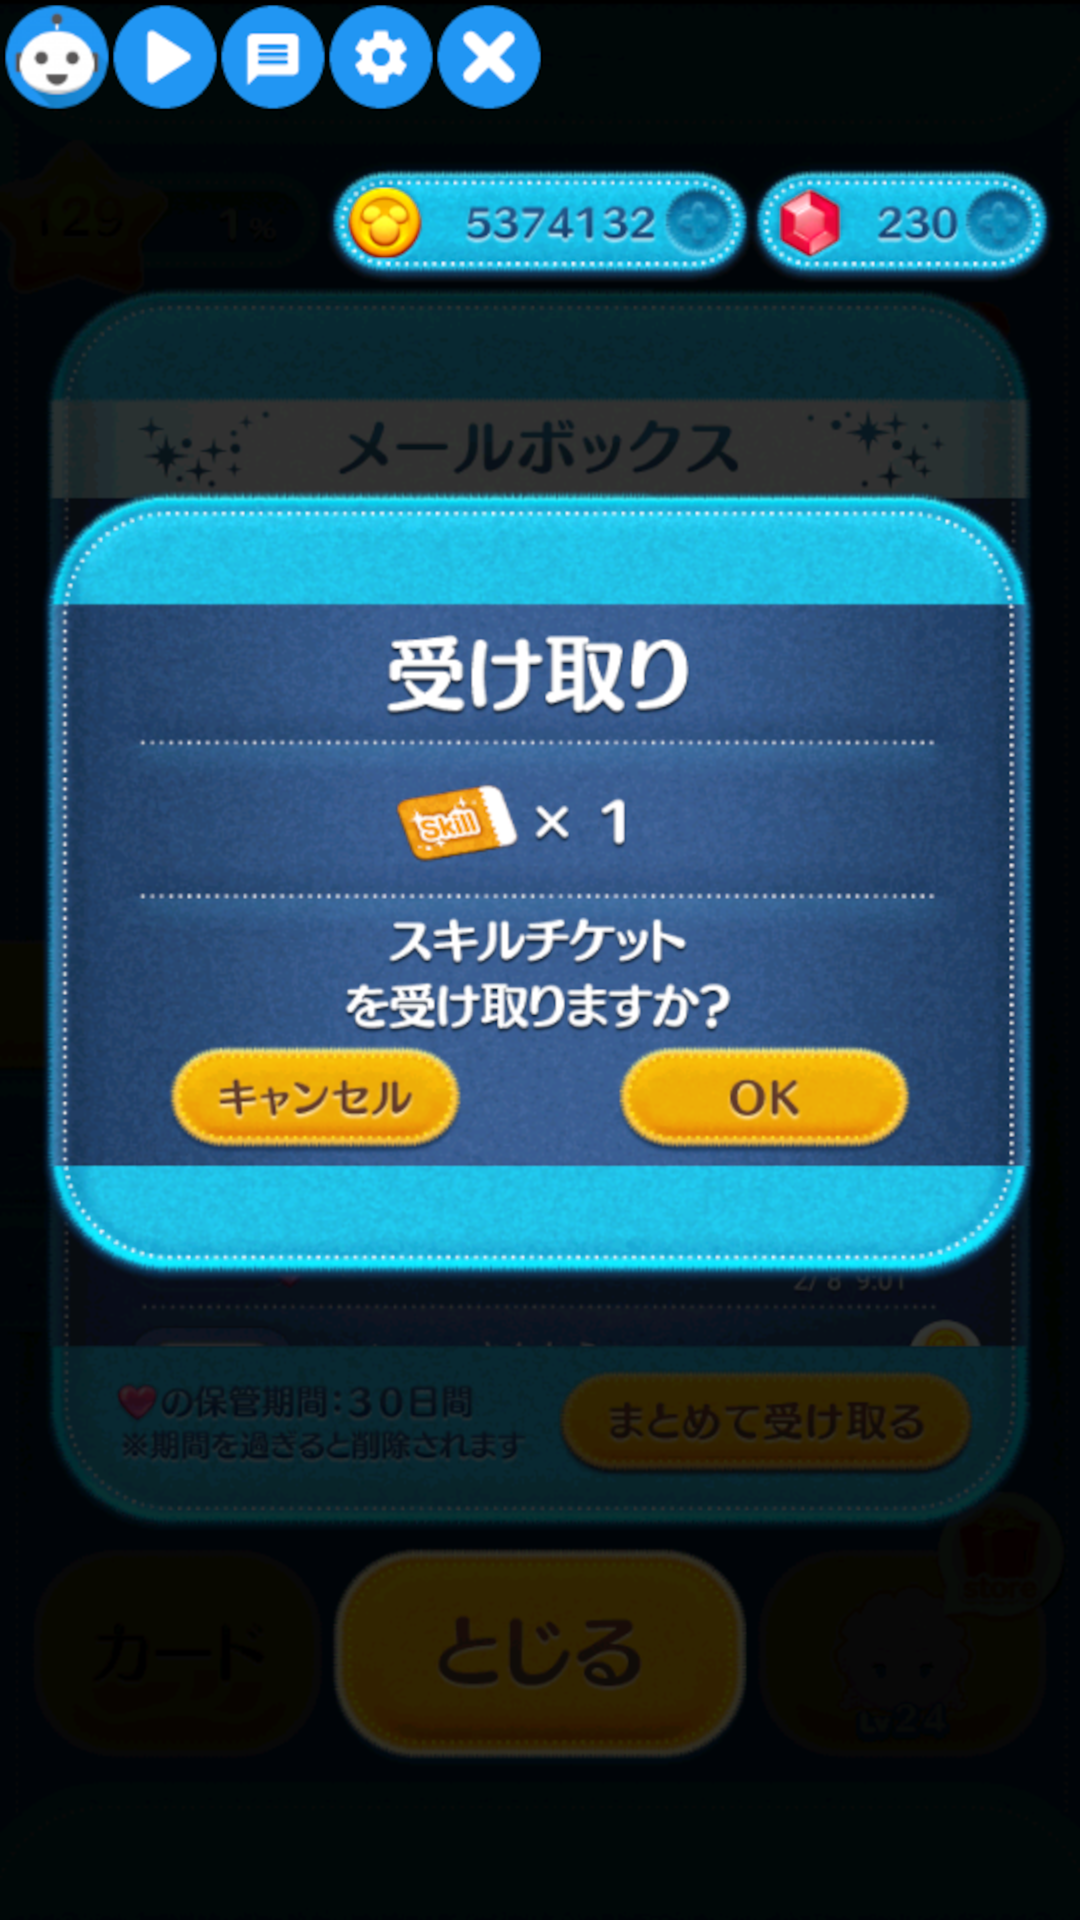
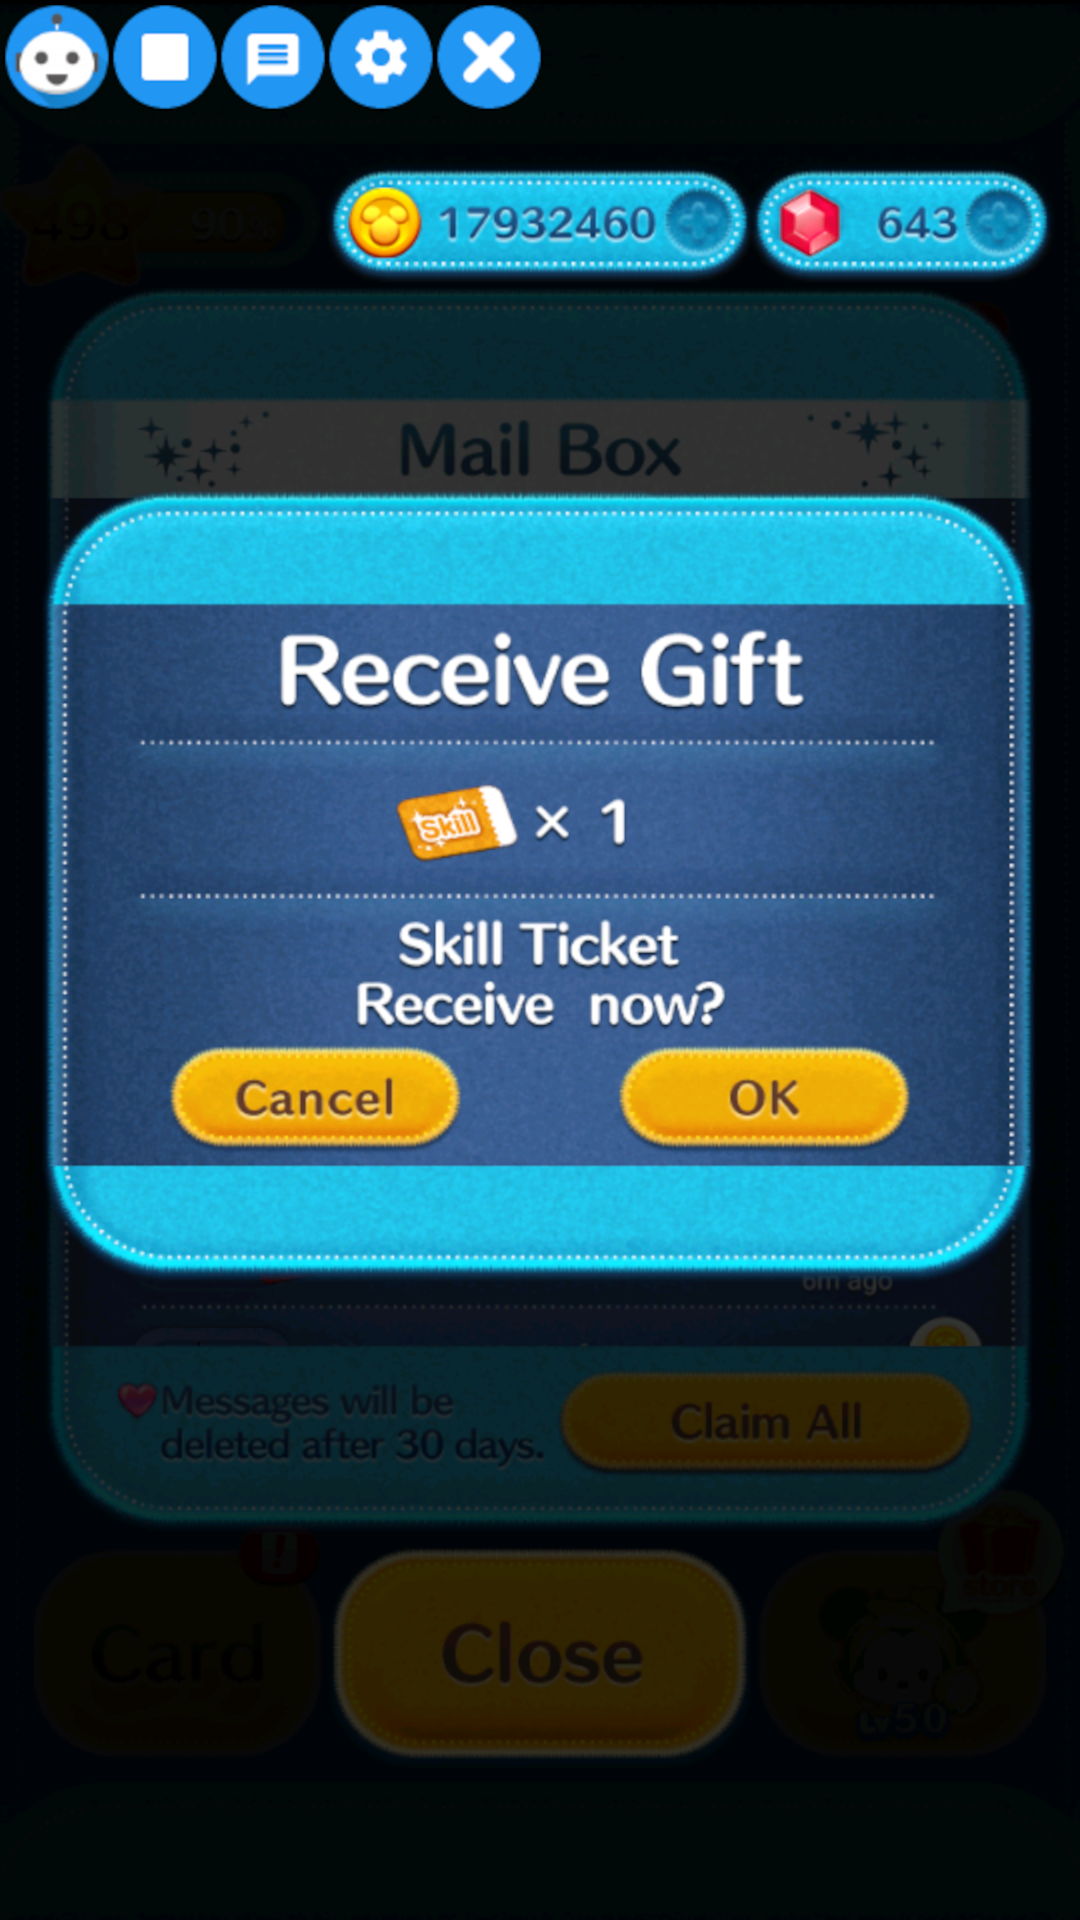
TsumBeta: Detect skill and premium tickets on mailbox fetch

diff --git a/scripts/com.r2studio.TsumBeta/src/index.js b/scripts/com.r2studio.TsumBeta/src/index.js
@@ -109,9 +109,9 @@ var Button = {
   outReceiveOne: {x: 840, y: 569, color: {"a":0,"b":30,"g":181,"r":235}, color2: {"a":0,"b":119,"g":74,"r":40}},
   outReceiveOne2th: {x: 840, y: 774, color: {"a":0,"b":30,"g":181,"r":235}, color2: {"a":0,"b":119,"g":74,"r":40}},
   outReceiveOneRuby: {x: 295, y: 651, color: {r: 224, g: 93, b: 101}}, // ruby
-  outReceiveOneRuby2th: {x: 295, y: 651+68*3, color: {r: 235, g: 93, b: 105}}, // ruby
-  outReceiveOneAd: { x: 290, y: 812 - 140, color: { r: 90, g: 57, b: 25 } }, // ad
-  outReceiveOneAd2th: { x: 290, y: 672+68*3, color: { r: 90, g: 57, b: 25 } }, // ad
+  outReceiveOneRuby2th: {x: 295, y: 855, color: {r: 235, g: 93, b: 105}}, // ruby
+  outReceiveOneAd: { x: 290, y: 672, color: { r: 90, g: 57, b: 25 } }, // ad
+  outReceiveOneAd2th: { x: 290, y: 876, color: { r: 90, g: 57, b: 25 } }, // ad
   outReceiveTimeout: {x: 600, y: 1092, color: {"a":0,"b":11,"g":171,"r":235}},
   outSendHeartTop: {x: 910, y: 502},
   outSendHeart0: {x: 910, y: 698, color: {"a":0,"b":142,"g":60,"r":209}, color2: {"a":0,"b":140,"g":65,"r":3}},
@@ -681,6 +681,38 @@ var Page = {
     ],
     back: {x: 176, y: 1592},
     next: {x: 176, y: 1592}
+  },
+  ReceiveSkillTicket: {
+    name: 'ReceiveSkillTicket',
+    colors: [
+      {x: 405, y: 806, r: 240, g: 155, b: 20, match: true, threshold: 80},
+      {x: 488, y: 839, r: 244, g: 164, b: 23, match: true, threshold: 80},
+      {x: 502, y: 821, r: 255, g: 255, b: 255, match: true, threshold: 40},
+      {x: 390, y: 824, r: 58, g: 92, b: 142, match: true, threshold: 80},
+      {x: 522, y: 812, r: 60, g: 95, b: 147, match: true, threshold: 80},
+      {x: 874, y: 1098, r: 238, g: 174, b: 8, match: true, threshold: 80},
+      {x: 198, y: 1095, r: 239, g: 174, b: 8, match: true, threshold: 80},
+      {x: 160, y: 1545, r: 0, g: 4, b: 8, match: true, threshold: 80},
+      {x: 526, y: 553, r: 33, g: 195, b: 231, match: true, threshold: 80}
+    ],
+    back: {x: 198, y: 1095},
+    next: {x: 874, y: 1098}
+  },
+  ReceivePremiumTicket: {
+    name: 'ReceivePremiumTicket',
+    colors: [
+      {x: 405, y: 806, r: 216, g: 20, b: 25, match: true, threshold: 80},
+      {x: 488, y: 839, r: 208, g: 20, b: 23, match: true, threshold: 80},
+      {x: 502, y: 821, r: 255, g: 247, b: 181, match: true, threshold: 40},
+      {x: 390, y: 824, r: 58, g: 92, b: 142, match: true, threshold: 80},
+      {x: 522, y: 812, r: 60, g: 95, b: 147, match: true, threshold: 80},
+      {x: 874, y: 1098, r: 238, g: 174, b: 8, match: true, threshold: 80},
+      {x: 198, y: 1095, r: 239, g: 174, b: 8, match: true, threshold: 80},
+      {x: 160, y: 1545, r: 0, g: 4, b: 8, match: true, threshold: 80},
+      {x: 526, y: 553, r: 33, g: 195, b: 231, match: true, threshold: 80}
+    ],
+    back: {x: 198, y: 1095},
+    next: {x: 874, y: 1098}
   }
 };
 
@@ -1363,6 +1395,36 @@ Tsum.prototype.findPage = function(times, timeout) {
   return page != null ? page.name : 'unknown';
 }
 
+Tsum.prototype.matchesPage = function (pageName) {
+  var found = false;
+  var img = null;
+  for (var pageId in Page) {
+    var page = Page[pageId];
+    if (pageName === page.name) {
+      if (img == null) {
+        // lazy init only if page exists
+        img = this.screenshot();
+      }
+      var colors = page.colors || [];
+      found = false;
+      for (var i = 0; i < colors.length; i++) {
+        var color = colors[i];
+        found = isSameColor(this.getColor(img, color), color, 20);
+        if (!found) {
+          break;  // try next page
+        }
+      }
+      if (found)
+        break;  // exit search
+    }
+  }
+  if (img != null) {
+    releaseImage(img);
+  }
+  debug("*** Found", pageName, "=", found);
+  return found;
+}
+
 Tsum.prototype.exitUnknownPage = function() {
   keycode('KEYCODE_DPAD_DOWN', 50);
   this.sleep(500);
@@ -2026,15 +2088,28 @@ Tsum.prototype.clear = function() {
 }
 
 Tsum.prototype.skipAd = function () {
-  log("Ignore Ad");
   this.tap(Button.outReceiveOne);
-  this.sleep(4000);
-  // delete ad
-  this.tap({ x: 462, y: 1235 - 140 });
-  this.sleep(4000);
-  this.tap({ x: 172, y: 1360 - 140 });
-  this.sleep(2000);
-  this.tap({ x: 556, y: 1557 - 140 });
+  this.sleep(1000);
+  // also gets called for skill and premium tickets, so check we really have an ad!!!
+  if (this.matchesPage('ReceiveSkillTicket') || this.matchesPage('ReceivePremiumTicket')) {
+    // mcs: I improved ad detection here because I don't get ad mails. So I cannot improve detection in list view
+    log("Receive ticket");
+    this.tap(Button.outReceiveOk);
+  } else {
+    log("Ignore Ad");
+    if (Config.debugLogs) {
+      var img = this.screenshot();
+      saveImage(img, this.storagePath + "/tmp/" + this.runTimes + "-detectedAd.jpg");
+      releaseImage(img);
+    }
+    this.sleep(4000);
+    // delete ad
+    this.tap({ x: 462, y: 1095});
+    this.sleep(4000);
+    this.tap({ x: 172, y: 1220});
+    this.sleep(2000);
+    this.tap({ x: 556, y: 1417});
+  }
 }
 
 Tsum.prototype.taskReceiveOneItem = function() {
